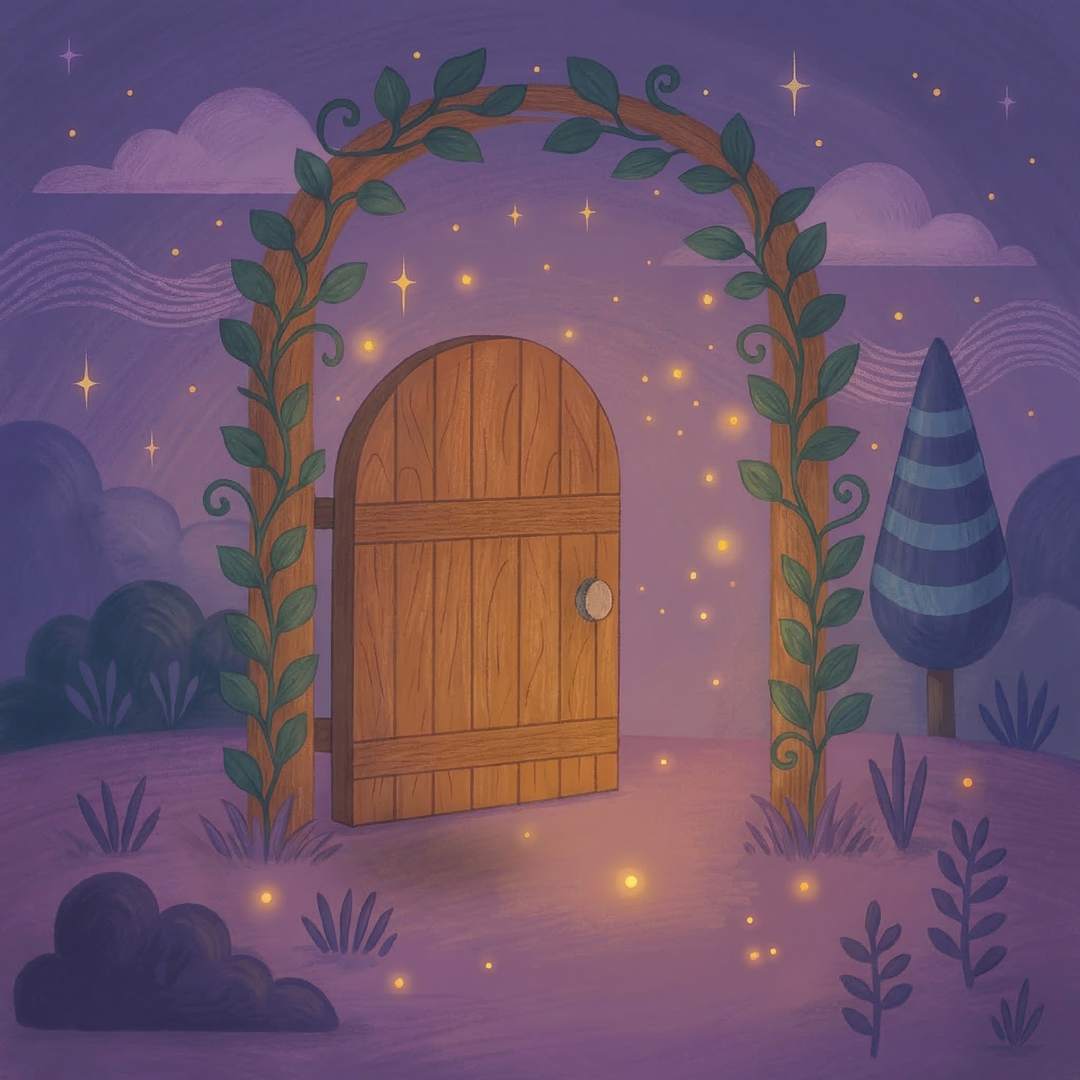
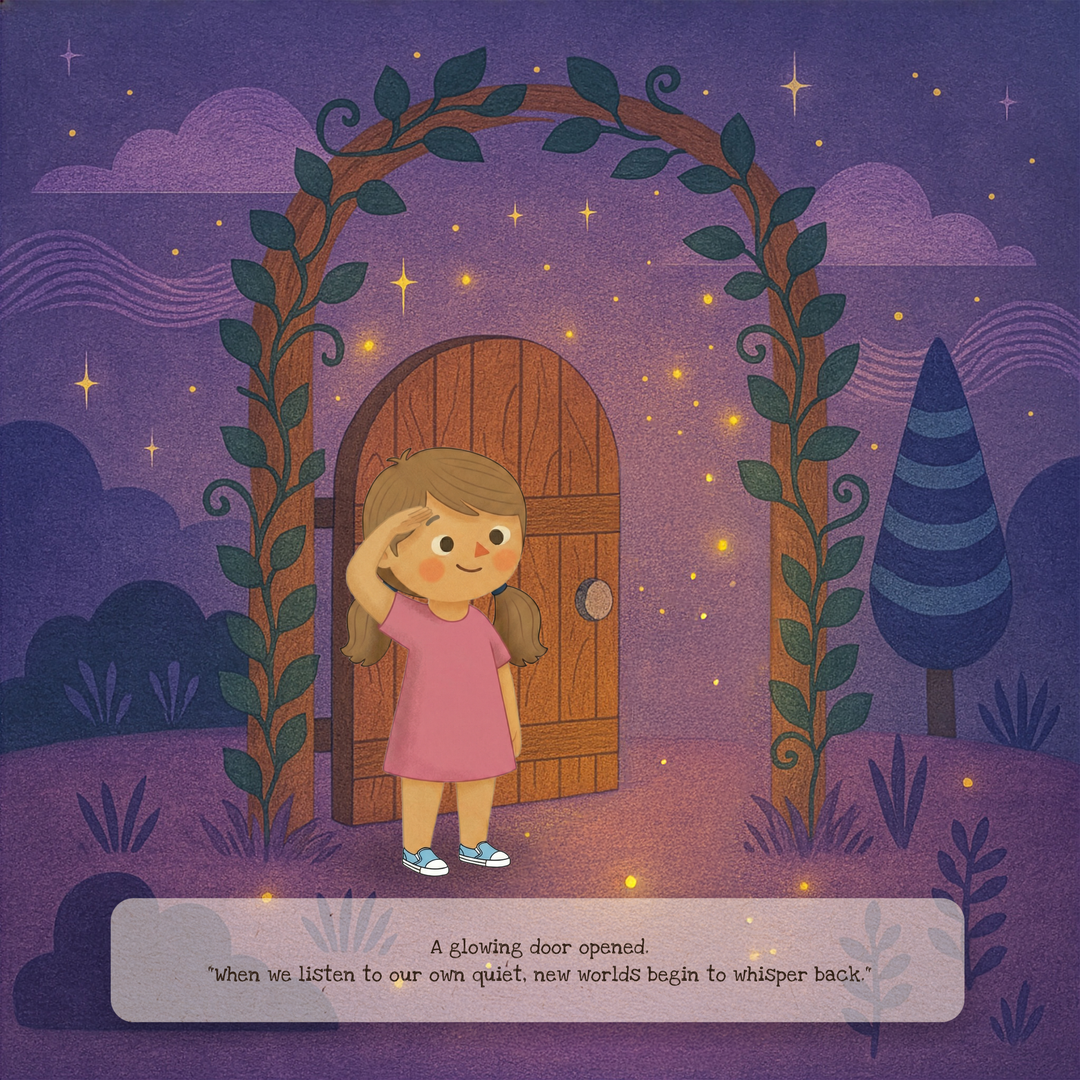
IG launch: finalize all assets + brand-truth corrections
Asset additions (4 new):
- post-1-cover.jpg: book on linen flat-lay (IMG_7032 processed)
- post-4-founder.jpg: founder portrait (IMG_7058 processed)
- post-5-reading-moment.jpg: lifestyle photo cropped to 1:1
- post-8-spread-detail.jpg: bedtime + starlit-forest spread (IMG_7044)
- post-7-theme-quote-alt.jpg: rendered Page 6 source for quote overlay

Asset regenerations (4):
- post-3-spread-teaser: swapped placeholder for rendered Page 3 (glowing
  doorway with child + actual page text)
- post-6a-hair-styles: now 17 styles (was 12), 5x4 grid centered last row
- post-6b-skin-and-hair-colors: per-swatch labels added matching live UI
- post-7-theme-quote: real Page 6 art + verbatim book quote
  ("Listening brings courage. It can feel like joy.") with attribution

Script: scripts/instagram-launch/generate-posts.py updated for the
17-style grid, per-swatch labels in 6b, and Page 6 alt source for Post 7.

Brand-truth corrections in CLAUDE.md:
- Hair styles: 12 -> 17 (matched against frontend traitOptions.ts)
- Skin tones: olive/dark -> medium-dark/deep (matched D2C frontend)

diff --git a/scripts/instagram-launch/generate-posts.py b/scripts/instagram-launch/generate-posts.py
@@ -156,11 +156,11 @@ def post_6a():
     draw = ImageDraw.Draw(canvas)
 
     title_font = font(SANS, 44, index=2)  # Avenir medium
-    bbox = draw.textbbox((0, 0), "12 hair styles", font=title_font)
+    bbox = draw.textbbox((0, 0), "17 hair styles", font=title_font)
     tw = bbox[2] - bbox[0]
-    draw.text(((SIZE - tw) // 2, 50), "12 hair styles", font=title_font, fill=(50, 40, 30))
+    draw.text(((SIZE - tw) // 2, 50), "17 hair styles", font=title_font, fill=(50, 40, 30))
 
-    # Pick 12 representative styles. Prefer color-diverse using `generated/` if available.
+    # Full list from frontend/src/lib/createFlow/traitOptions.ts
     styles = [
         "side-part",
         "straight-short",
@@ -169,37 +169,54 @@ def post_6a():
         "curly-short",
         "curly-medium",
         "curly-long",
+        "curly-tight",
+        "curly-crop",
         "afro",
         "bun",
         "pigtails",
         "ponytail",
+        "puffy-ponytail",
+        "small-puffy-ponytail",
+        "pom-poms",
         "buzz",
     ]
-    # Use generated color variants for variety
+    # Color cycle for visual variety across the 17-item grid.
     color_cycle = [
         "blonde",
+        "strawberry-blonde",
+        "medium-brown",
+        "light-brown",
         "dark-brown",
         "red",
-        "black",
         "auburn",
-        "medium-brown",
+        "black",
         "blonde",
-        "dark-brown",
+        "strawberry-blonde",
+        "light-brown",
+        "medium-brown",
+        "light-brown",
+        "auburn",
         "red",
         "black",
-        "auburn",
-        "medium-brown",
+        "blonde",
     ]
 
-    cols, rows = 4, 3
-    grid_top = 140
-    grid_bottom = SIZE - 60
+    cols, rows = 5, 4
+    grid_top = 130
+    grid_bottom = SIZE - 50
     cell_w = SIZE // cols
     cell_h = (grid_bottom - grid_top) // rows
+    last_row_count = len(styles) - cols * (rows - 1)
+    last_row_x_offset = (SIZE - last_row_count * cell_w) // 2
     for i, (style, color) in enumerate(zip(styles, color_cycle)):
-        col = i % cols
         row = i // cols
-        cx = col * cell_w
+        col = i % cols
+        is_last_row = row == rows - 1
+        if is_last_row:
+            col = i - cols * (rows - 1)
+            cx = last_row_x_offset + col * cell_w
+        else:
+            cx = col * cell_w
         cy = grid_top + row * cell_h
         # Try color variant first
         candidate = HAIR / "generated" / f"{style}-{color}.jpg"
@@ -209,7 +226,7 @@ def post_6a():
             ref = Image.open(candidate).convert("RGB")
         except Exception:
             continue
-        thumb = fit_into(ref, cell_w - 16, cell_h - 28, pad=8, bg=CANVAS_BG)
+        thumb = fit_into(ref, cell_w - 16, cell_h - 20, pad=6, bg=CANVAS_BG)
         canvas.paste(thumb, (cx + 8, cy))
 
     out = OUT / "post-6a-hair-styles.png"
@@ -233,6 +250,21 @@ def post_6b():
     tw = bbox[2] - bbox[0]
     draw.text(((SIZE - tw) // 2, 60), "5 skin tones, 8 hair colors", font=h1, fill=(50, 40, 30))
 
+    swatch_label = font(SANS, 24, index=0)
+
+    def draw_centered_label(text, cx, top_y, width):
+        # Wrap to 2 lines on a space if it doesn't fit; vertical-align top.
+        bbox = draw.textbbox((0, 0), text, font=swatch_label)
+        tw = bbox[2] - bbox[0]
+        lines = [text]
+        if tw > width and " " in text:
+            parts = text.split(" ", 1)
+            lines = [parts[0], parts[1]]
+        for j, line in enumerate(lines):
+            lb = draw.textbbox((0, 0), line, font=swatch_label)
+            lw = lb[2] - lb[0]
+            draw.text((cx - lw // 2, top_y + j * 30), line, font=swatch_label, fill=(80, 60, 40))
+
     # Skin tones row
     label_y = 200
     draw.text((100, label_y), "Skin tones", font=section_title, fill=(80, 60, 40))
@@ -244,9 +276,10 @@ def post_6b():
     for i, (name, hex_) in enumerate(SKIN_TONES):
         x = skin_x_start + i * (swatch_d + 30)
         draw.ellipse([x, skin_y, x + swatch_d, skin_y + swatch_d], fill=hex_to_rgb(hex_), outline=(225, 215, 200), width=2)
+        draw_centered_label(name, x + swatch_d // 2, skin_y + swatch_d + 16, swatch_d + 24)
 
     # Hair colors row
-    label2_y = skin_y + swatch_d + 90
+    label2_y = skin_y + swatch_d + 130
     draw.text((100, label2_y), "Hair colors", font=section_title, fill=(80, 60, 40))
     hair_d = 90
     hair_y = label2_y + 60
@@ -256,6 +289,7 @@ def post_6b():
     for i, (name, hex_) in enumerate(HAIR_COLORS):
         x = hair_x_start + i * (hair_d + 18)
         draw.ellipse([x, hair_y, x + hair_d, hair_y + hair_d], fill=hex_to_rgb(hex_), outline=(225, 215, 200), width=2)
+        draw_centered_label(name, x + hair_d // 2, hair_y + hair_d + 14, hair_d + 18)
 
     out = OUT / "post-6b-skin-and-hair-colors.png"
     canvas.save(out, "PNG", optimize=True)
@@ -318,43 +352,45 @@ def post_6c():
 # POST 7: theme quote on watercolor
 # ----------------------------------------------------------------------
 def post_7():
-    bg = Image.open(PAGES / "page01-twilight-walk.jpg").convert("RGB")
-    img = cover_crop(bg, SIZE, SIZE)
+    # Real rendered Page 6 (tall-forest) from the book.
+    bg = Image.open(OUT / "post-7-theme-quote-alt.jpg").convert("RGB")
+    img = bg.resize((SIZE, SIZE), Image.LANCZOS).convert("RGBA")
 
-    # Soft dark gradient at bottom for legibility
+    # Strong cream wash at the top so both quote and attribution sit clean.
     overlay = Image.new("RGBA", (SIZE, SIZE), (0, 0, 0, 0))
     od = ImageDraw.Draw(overlay)
-    grad_top = int(SIZE * 0.55)
-    for i in range(grad_top, SIZE):
-        alpha = int(120 * (i - grad_top) / (SIZE - grad_top))
-        od.line([(0, i), (SIZE, i)], fill=(0, 0, 0, alpha))
-    img = Image.alpha_composite(img.convert("RGBA"), overlay).convert("RGB")
+    wash_bottom = int(SIZE * 0.42)
+    for i in range(wash_bottom):
+        # Solid for the top 60% of the wash, then fade.
+        if i < wash_bottom * 0.60:
+            alpha = 175
+        else:
+            t = (i - wash_bottom * 0.60) / (wash_bottom * 0.40)
+            alpha = int(175 * (1 - t))
+        od.line([(0, i), (SIZE, i)], fill=(255, 248, 230, alpha))
+    img = Image.alpha_composite(img, overlay).convert("RGB")
 
     draw = ImageDraw.Draw(img)
-    quote_font = font(SERIF, 56, index=1)  # italic
+    quote_font = font(SERIF, 60, index=1)  # italic
     attr_font = font(SERIF, 28, index=0)
 
     quote_lines = [
-        "Sometimes the bravest voice",
-        "is the one only you can hear.",
+        "Listening brings courage.",
+        "It can feel like joy.",
     ]
-    text_color = (252, 248, 242)
-    line_h = 70
-    total_h = line_h * len(quote_lines)
-    start_y = SIZE - 230 - total_h // 2
+    text_color = (52, 36, 22)  # dark warm brown
+    line_h = 78
+    start_y = int(SIZE * 0.10)
     for line in quote_lines:
         bbox = draw.textbbox((0, 0), line, font=quote_font)
         tw = bbox[2] - bbox[0]
-        # subtle drop shadow
-        draw.text(((SIZE - tw) // 2 + 2, start_y + 2), line, font=quote_font, fill=(0, 0, 0))
         draw.text(((SIZE - tw) // 2, start_y), line, font=quote_font, fill=text_color)
         start_y += line_h
 
     attr = "— Finding Our Inner Voice"
     bbox = draw.textbbox((0, 0), attr, font=attr_font)
     tw = bbox[2] - bbox[0]
-    draw.text(((SIZE - tw) // 2 + 1, SIZE - 110 + 1), attr, font=attr_font, fill=(0, 0, 0))
-    draw.text(((SIZE - tw) // 2, SIZE - 110), attr, font=attr_font, fill=text_color)
+    draw.text(((SIZE - tw) // 2, start_y + 16), attr, font=attr_font, fill=(82, 58, 36))
 
     out = OUT / "post-7-theme-quote.png"
     img.save(out, "PNG", optimize=True)

diff --git a/CLAUDE.md b/CLAUDE.md
@@ -39,7 +39,7 @@ A fully personalized children's storybook. The child is the hero — name, look,
 
 Source of truth: [docs/new-planning/Customization_Source_of_Truth.md](docs/new-planning/Customization_Source_of_Truth.md). Skills and outreach should reflect what's there.
 
-**Required (7):** name, age (0–7), hair style (12 options), hair color (8), skin tone (5: light/medium/tan/olive/dark), favorite color (9), animal guide (8: dog/cat/owl/lion/tiger/penguin/t-rex/unicorn).
+**Required (7):** name, age (0–7), hair style (17 options), hair color (8), skin tone (5: light/medium/tan/medium-dark/deep), favorite color (9), animal guide (8: dog/cat/owl/lion/tiger/penguin/t-rex/unicorn).
 
 **Optional (4):** clothing style (t-shirt+shorts / dress), hometown (default "Adventure City"), dedication (≤200 chars), pronouns (she/he/they; default they/them).
 
